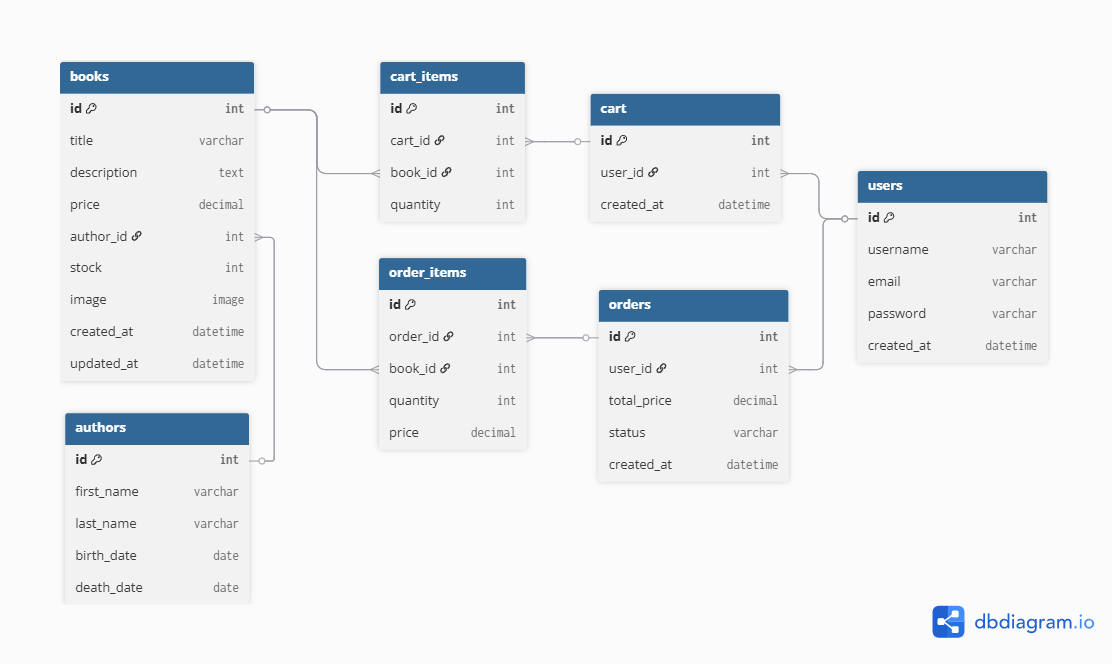
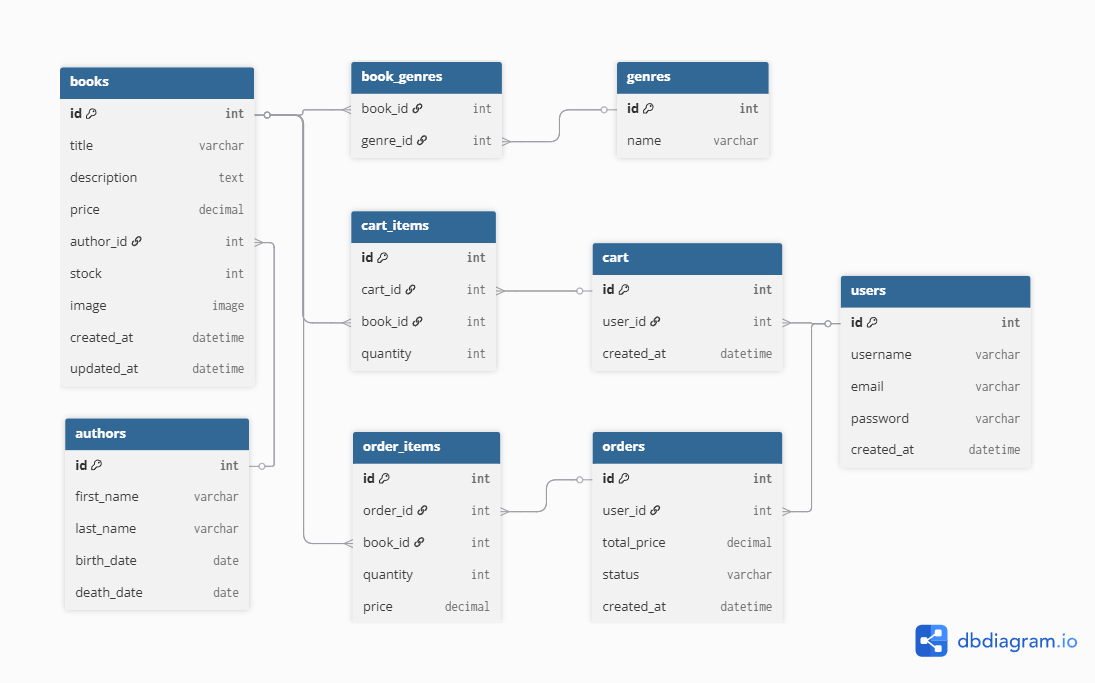
add genre filter to catalog

diff --git a/static/js/main.js b/static/js/main.js
@@ -130,6 +130,18 @@ document.addEventListener('DOMContentLoaded', () => {
     const priceMinVal  = document.getElementById('priceMinVal');
     const priceMaxVal  = document.getElementById('priceMaxVal');
     const rangeFill    = document.getElementById('rangeFill');
+    const genreTagEls   = document.querySelectorAll('.genre-tag');
+    const activeGenres  = new Set();
+
+    genreTagEls.forEach(tag => {
+        tag.addEventListener('click', () => {
+            const id = tag.dataset.genreId;
+            if (activeGenres.has(id)) { activeGenres.delete(id); tag.classList.remove('active'); }
+            else                      { activeGenres.add(id);    tag.classList.add('active'); }
+            applyFilters();
+        });
+    });
+
     const authorDropdown = document.getElementById('authorDropdown');
     const authorDropdownBtn = document.getElementById('authorDropdownBtn');
     const authorDropdownMenu = document.getElementById('authorDropdownMenu');
@@ -179,8 +191,10 @@ document.addEventListener('DOMContentLoaded', () => {
         allCards.forEach(card => {
             const score = fuzzyScore(q, card.dataset.title);
             const price = parseFloat(card.dataset.price);
-            const show  = score > 0 && price >= min && price <= max
-                       && (authors.size === 0 || authors.has(card.dataset.authorId));
+            const cardGenres = new Set(card.dataset.genres ? card.dataset.genres.split(',') : []);
+        const show  = score > 0 && price >= min && price <= max
+                   && (authors.size === 0 || authors.has(card.dataset.authorId))
+                   && (activeGenres.size === 0 || [...activeGenres].every(g => cardGenres.has(g)));
             card.style.display = show ? '' : 'none';
             if (show) visible++;
         });

diff --git a/static/css/main.css b/static/css/main.css
@@ -472,6 +472,21 @@ main { flex: 1; max-width: 1200px; width: 100%; margin: 0 auto; padding: 36px 24
 .author-option:hover { background: rgba(255,255,255,.08); }
 .author-option input[type="checkbox"] { accent-color: var(--gold); width: 15px; height: 15px; cursor: pointer; flex-shrink: 0; }
 
+.genre-tags { display: flex; flex-wrap: wrap; gap: 8px; margin-bottom: 24px; }
+.genre-tag {
+    padding: 6px 14px;
+    border-radius: 20px;
+    border: 1.5px solid var(--border);
+    background: var(--card-bg);
+    color: var(--muted);
+    font-size: .82rem;
+    font-weight: 500;
+    cursor: pointer;
+    transition: border-color .15s, color .15s, background .15s;
+}
+.genre-tag:hover { border-color: var(--navy); color: var(--navy); }
+.genre-tag.active { background: var(--navy); color: #fff; border-color: var(--navy); }
+
 .price-filter { display: flex; flex-direction: column; gap: 6px; width: 200px; flex-shrink: 0; }
 .price-filter-label { display: flex; justify-content: space-between; font-size: .8rem; color: rgba(255,255,255,.7); }
 .price-values { color: var(--gold); font-weight: 600; }

diff --git a/templates/books/list.html b/templates/books/list.html
@@ -50,6 +50,14 @@
     </div>
 </div>
 
+{% if genres %}
+<div class="genre-tags" id="genreTags">
+    {% for genre in genres %}
+    <button class="genre-tag" data-genre-id="{{ genre.id }}">{{ genre.name }}</button>
+    {% endfor %}
+</div>
+{% endif %}
+
 <div class="book-grid">
     {% for book in books %}
     <div class="book-card"
@@ -57,6 +65,7 @@
          data-title="{{ book.title }}"
          data-author="{{ book.author.first_name }} {{ book.author.last_name }}"
          data-author-id="{{ book.author.id }}"
+         data-genres="{% for g in book.genres.all %}{{ g.id }}{% if not forloop.last %},{% endif %}{% endfor %}"
          data-price="{{ book.price }}"
          data-stock="{{ book.stock }}"
          data-description="{{ book.description }}"

diff --git a/books/migrations/0003_genre_book_genres.py b/books/migrations/0003_genre_book_genres.py
@@ -1,0 +1,28 @@
+# Generated by Django 6.0.4 on 2026-05-03 01:49
+
+from django.db import migrations, models
+
+
+class Migration(migrations.Migration):
+
+    dependencies = [
+        ('books', '0002_alter_author_options_rename_name_author_first_name_and_more'),
+    ]
+
+    operations = [
+        migrations.CreateModel(
+            name='Genre',
+            fields=[
+                ('id', models.BigAutoField(auto_created=True, primary_key=True, serialize=False, verbose_name='ID')),
+                ('name', models.CharField(max_length=100, unique=True)),
+            ],
+            options={
+                'ordering': ['name'],
+            },
+        ),
+        migrations.AddField(
+            model_name='book',
+            name='genres',
+            field=models.ManyToManyField(blank=True, related_name='books', to='books.genre'),
+        ),
+    ]

diff --git a/fixture.py b/fixture.py
@@ -11,7 +11,7 @@ django.setup()
 
 from django.contrib.auth import get_user_model
 from django.contrib.auth.hashers import make_password
-from books.models import Author, Book
+from books.models import Author, Book, Genre
 from orders.models import Order, OrderItem
 from cart.models import Cart, CartItem
 
@@ -62,6 +62,11 @@ DESCRIPTIONS = [
     "Сатиричний твір, що висміює людські вади та суспільні вади.",
 ]
 
+GENRES = [
+    "Роман", "Повість", "Поезія", "Драма", "Детектив",
+    "Фантастика", "Пригоди", "Історичний", "Лірика", "Сатира",
+]
+
 STATUSES = ['pending', 'paid', 'shipped', 'cancelled']
 
 HASHED_PW = make_password('password123')
@@ -83,8 +88,17 @@ async def clear_all():
     await Order.objects.all().adelete()
     await Book.objects.all().adelete()
     await Author.objects.all().adelete()
+    await Genre.objects.all().adelete()
     await User.objects.filter(is_superuser=False).adelete()
     print("Готово.\n")
+
+
+async def seed_genres():
+    print("Створення жанрів...")
+    await Genre.objects.abulk_create([Genre(name=g) for g in GENRES])
+    result = [g async for g in Genre.objects.all()]
+    print(f"  + {len(result)} жанрів")
+    return result
 
 
 async def seed_users(n=50):
@@ -122,7 +136,7 @@ async def seed_authors(n=50):
     return result
 
 
-async def seed_books(authors, n=50):
+async def seed_books(authors, genres, n=50):
     print(f"Створення {n} книг...")
     titles = random.sample(BOOK_TITLES * 2, n)
     books = [
@@ -137,6 +151,8 @@ async def seed_books(authors, n=50):
     ]
     await Book.objects.abulk_create(books)
     result = [b async for b in Book.objects.all()]
+    for book in result:
+        await book.genres.aset(random.sample(genres, random.randint(3, min(5, len(genres)))))
     print(f"  + {n} книг")
     return result
 
@@ -184,10 +200,10 @@ async def seed_carts(users, books, n=50):
 async def main():
     await clear_all()
 
-    # users і authors незалежні — паралельно
+    genres = await seed_genres()
     users, authors = await asyncio.gather(seed_users(50), seed_authors(50))
 
-    books = await seed_books(authors, 50)
+    books = await seed_books(authors, genres, 50)
 
     # orders і carts незалежні — паралельно
     await asyncio.gather(seed_orders(users, books, 50), seed_carts(users, books, 50))
@@ -200,6 +216,7 @@ async def main():
     print(f"  Orders:     {await Order.objects.acount()}")
     print(f"  OrderItems: {await OrderItem.objects.acount()}")
     print(f"  Carts:      {await Cart.objects.acount()}")
+    print(f"  Genres:     {await Genre.objects.acount()}")
     print(f"  CartItems:  {await CartItem.objects.acount()}")
 
 

diff --git a/books/models.py b/books/models.py
@@ -1,6 +1,16 @@
 from django.db import models
 
 
+class Genre(models.Model):
+    name = models.CharField(max_length=100, unique=True)
+
+    def __str__(self):
+        return self.name
+
+    class Meta:
+        ordering = ['name']
+
+
 class Author(models.Model):
     first_name = models.CharField(max_length=100)
     last_name = models.CharField(max_length=100, null=True, blank=True)
@@ -28,6 +38,7 @@ class Book(models.Model):
 
     stock = models.PositiveIntegerField()
     image = models.ImageField(upload_to='books/', null=True, blank=True)
+    genres = models.ManyToManyField(Genre, blank=True, related_name='books')
     created_at = models.DateTimeField(auto_now_add=True)
     updated_at = models.DateTimeField(auto_now=True)
 

diff --git a/books/serializers.py b/books/serializers.py
@@ -1,6 +1,12 @@
 from rest_framework import serializers
 from datetime import date
-from .models import Book, Author
+from .models import Book, Author, Genre
+
+
+class GenreSerializer(serializers.ModelSerializer):
+    class Meta:
+        model = Genre
+        fields = ['id', 'name']
 
 
 class BookShortSerializer(serializers.ModelSerializer):
@@ -48,6 +54,7 @@ class BookSerializer(serializers.ModelSerializer):
         write_only=True
     )
     author_name = serializers.SerializerMethodField()
+    genres = GenreSerializer(many=True, read_only=True)
 
     class Meta:
         model = Book
@@ -59,6 +66,7 @@ class BookSerializer(serializers.ModelSerializer):
             'author',
             'author_id',
             'author_name',
+            'genres',
             'stock',
             'image',
             'created_at',

diff --git a/books/views/web.py b/books/views/web.py
@@ -1,9 +1,10 @@
 from django.shortcuts import render
 
-from books.models import Book, Author
+from books.models import Book, Author, Genre
 
 
 def book_list(request):
-    books = Book.objects.select_related('author').all()
+    books = Book.objects.select_related('author').prefetch_related('genres').all()
     authors = Author.objects.order_by('last_name', 'first_name')
-    return render(request, 'books/list.html', {'books': books, 'authors': authors})
+    genres = Genre.objects.all()
+    return render(request, 'books/list.html', {'books': books, 'authors': authors, 'genres': genres})